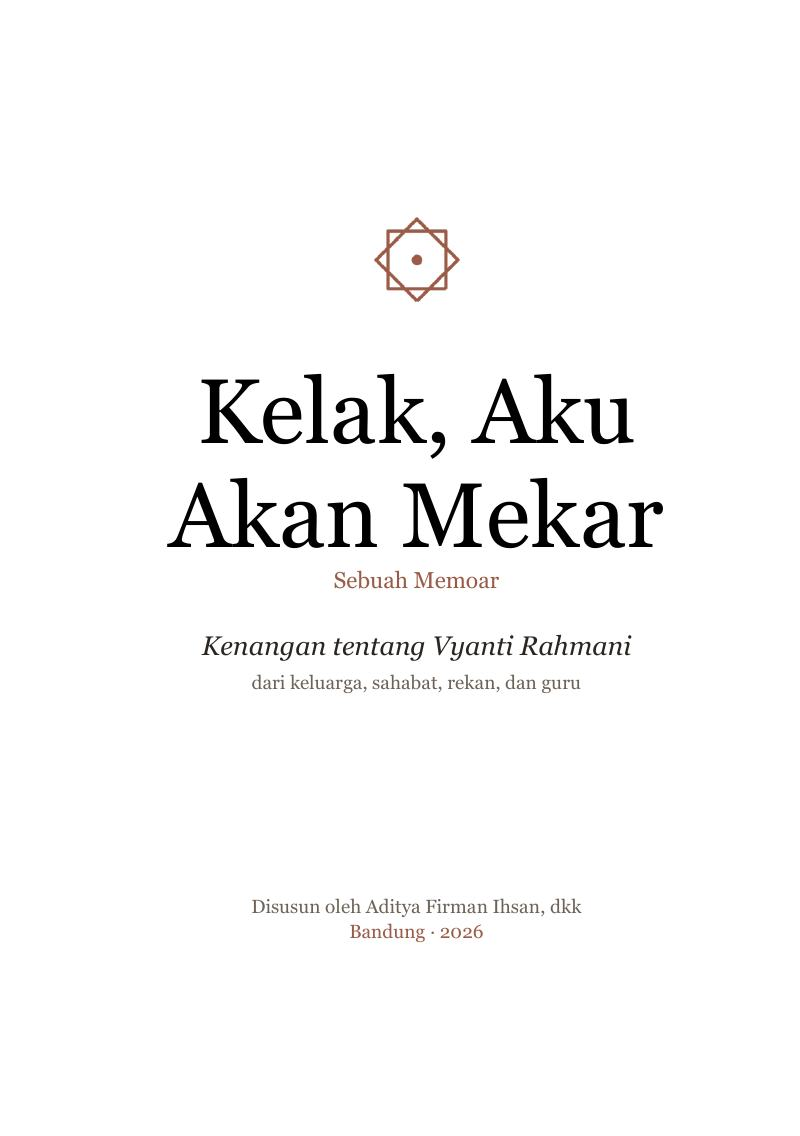
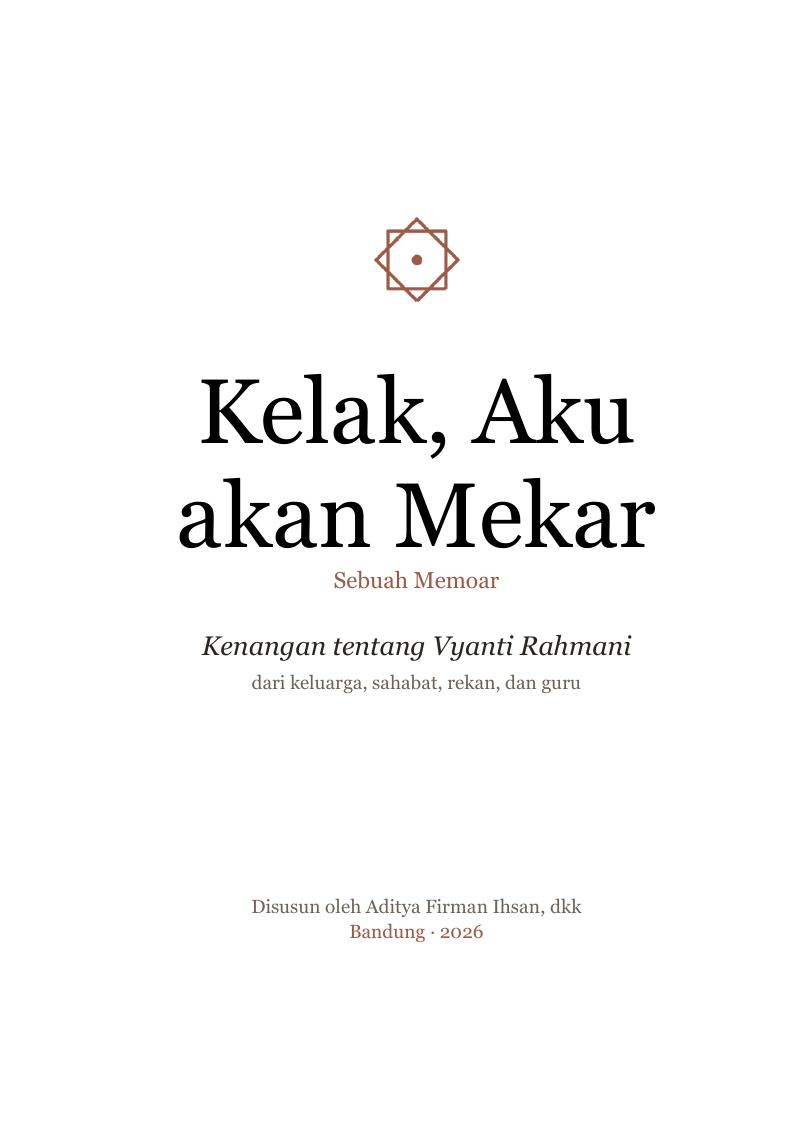
debug in live preview

Changed region(s): [[0.5, 0.4005, 0.8438, 0.493], [0.2188, 0.4005, 0.4688, 0.493]]

diff --git a/baca/index.html b/baca/index.html
@@ -11,11 +11,11 @@
 *{box-sizing:border-box}
 html,body{height:100%;margin:0}
 body{background:radial-gradient(ellipse at 50% 40%,#4a3052,#2a1a30 70%);color:#F4EAD8;font-family:Lora,Georgia,serif;display:flex;flex-direction:column;overflow:hidden}
-header{display:flex;justify-content:space-between;align-items:center;gap:12px;padding:10px 16px;font-size:14px}
+header{position:relative;z-index:20;display:flex;justify-content:space-between;align-items:center;gap:12px;padding:10px 16px;font-size:14px}
 header a{color:#F4EAD8;text-decoration:none;opacity:.85}
 header a:hover{opacity:1;text-decoration:underline}
 header b{font-weight:600;letter-spacing:.02em}
-main{flex:1;min-height:0;display:flex;align-items:center;justify-content:center;padding:0 12px;position:relative}
+main{flex:1;min-height:0;overflow:hidden;display:flex;align-items:center;justify-content:center;padding:0 12px;position:relative}
 #book{height:calc(100vh - 124px);width:min(100%,calc((100vh - 124px)*1.41));box-shadow:0 20px 60px rgba(0,0,0,.5)}
 @media(max-width:700px){#book{width:min(100%,calc((100vh - 150px)*.705))}}
 .pg{background:var(--paper);overflow:hidden}
@@ -23,7 +23,7 @@ main{flex:1;min-height:0;display:flex;align-items:center;justify-content:center;
 .nav{position:absolute;top:50%;transform:translateY(-50%);width:44px;height:44px;border-radius:50%;border:1px solid rgba(244,234,216,.35);background:rgba(0,0,0,.25);color:#F4EAD8;font-size:22px;cursor:pointer;z-index:5}
 .nav:hover{background:rgba(0,0,0,.45)}
 #prev{left:10px}#next{right:10px}
-footer{display:flex;justify-content:center;align-items:center;gap:10px;padding:10px 12px 14px;font-size:14px;flex-wrap:wrap}
+footer{position:relative;z-index:20;display:flex;justify-content:center;align-items:center;gap:10px;padding:10px 12px 14px;font-size:14px;flex-wrap:wrap}
 footer button,footer input{font:inherit;color:#F4EAD8;background:rgba(0,0,0,.25);border:1px solid rgba(244,234,216,.35);border-radius:6px;padding:6px 12px}
 footer button{cursor:pointer}footer button:hover{background:rgba(0,0,0,.45)}
 footer input{width:64px;text-align:center}
